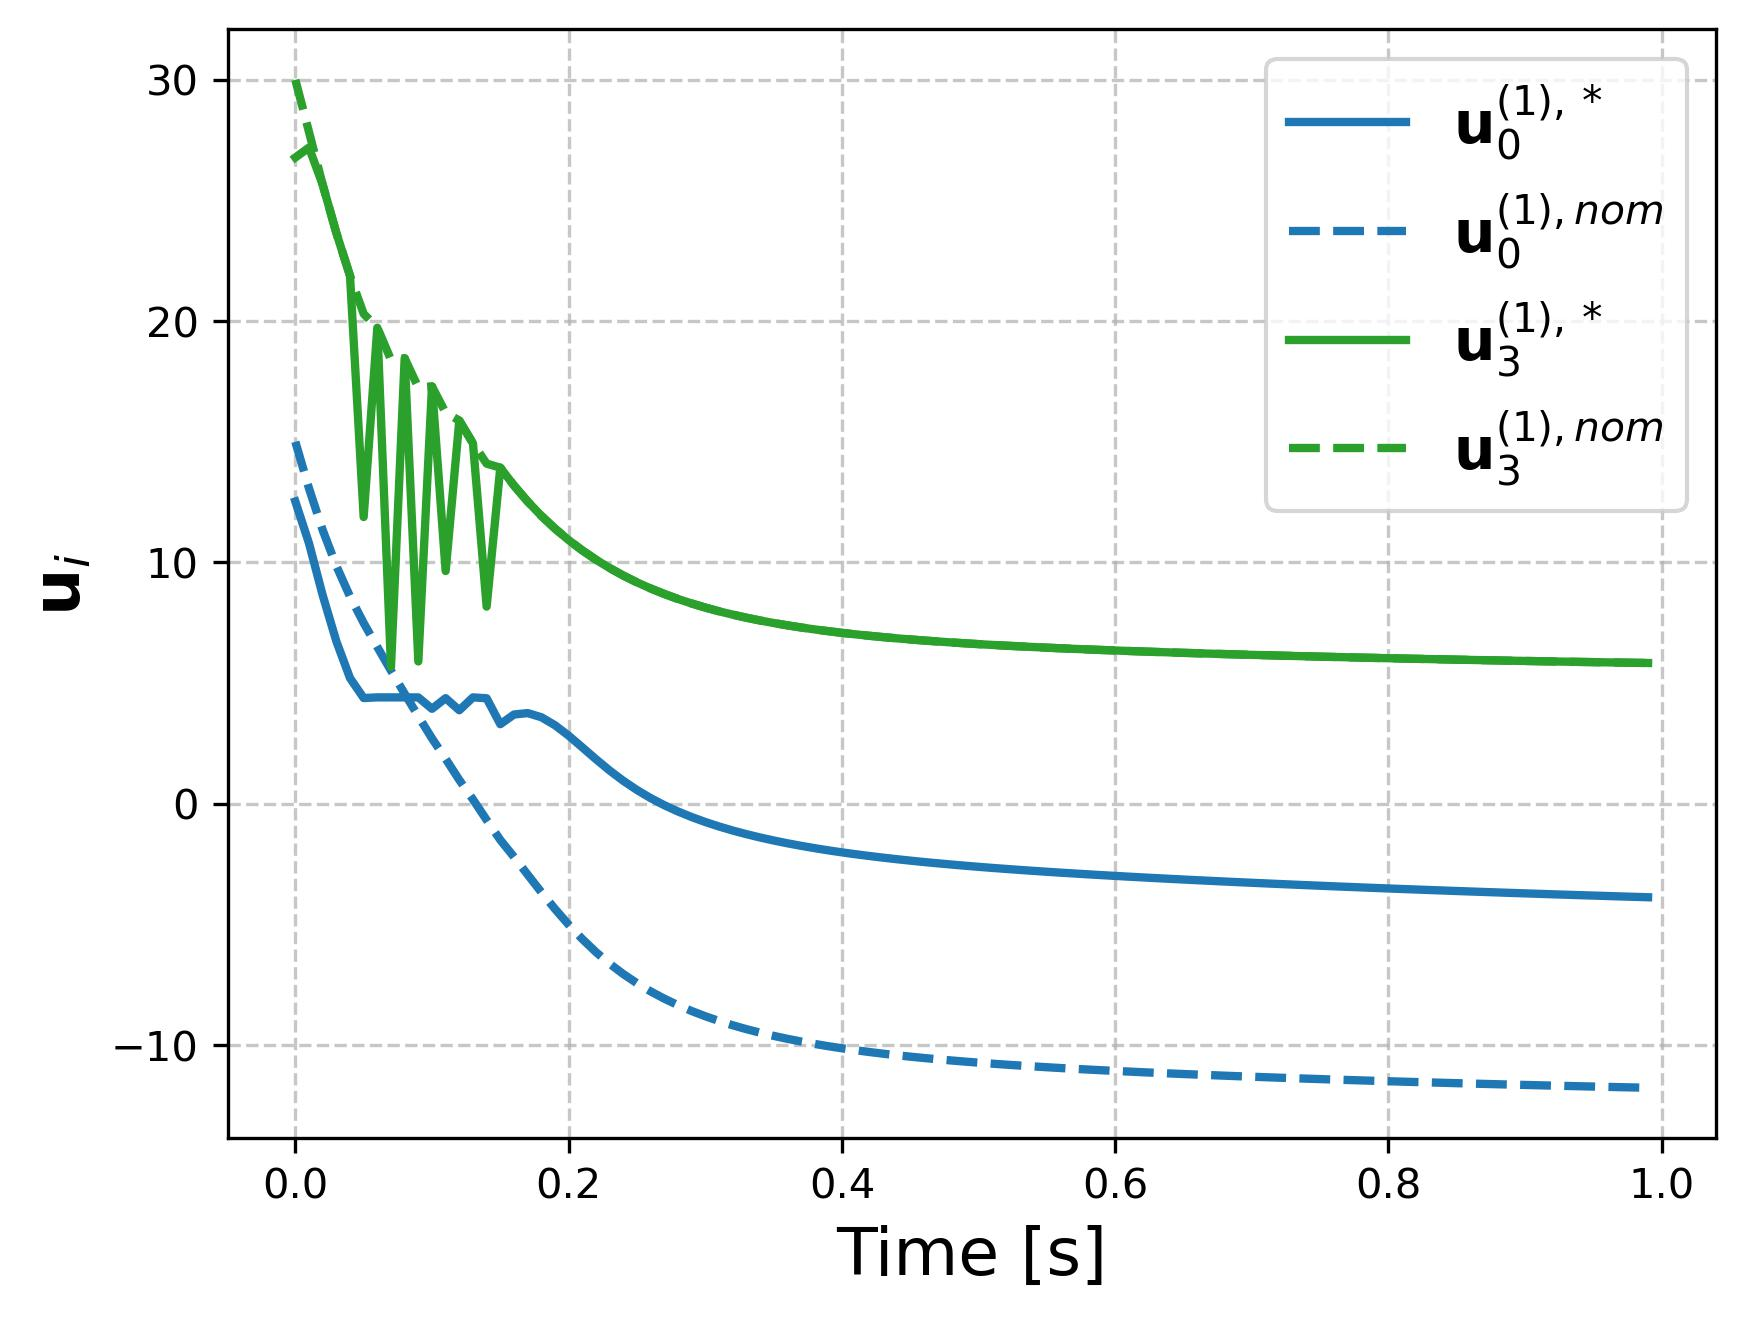
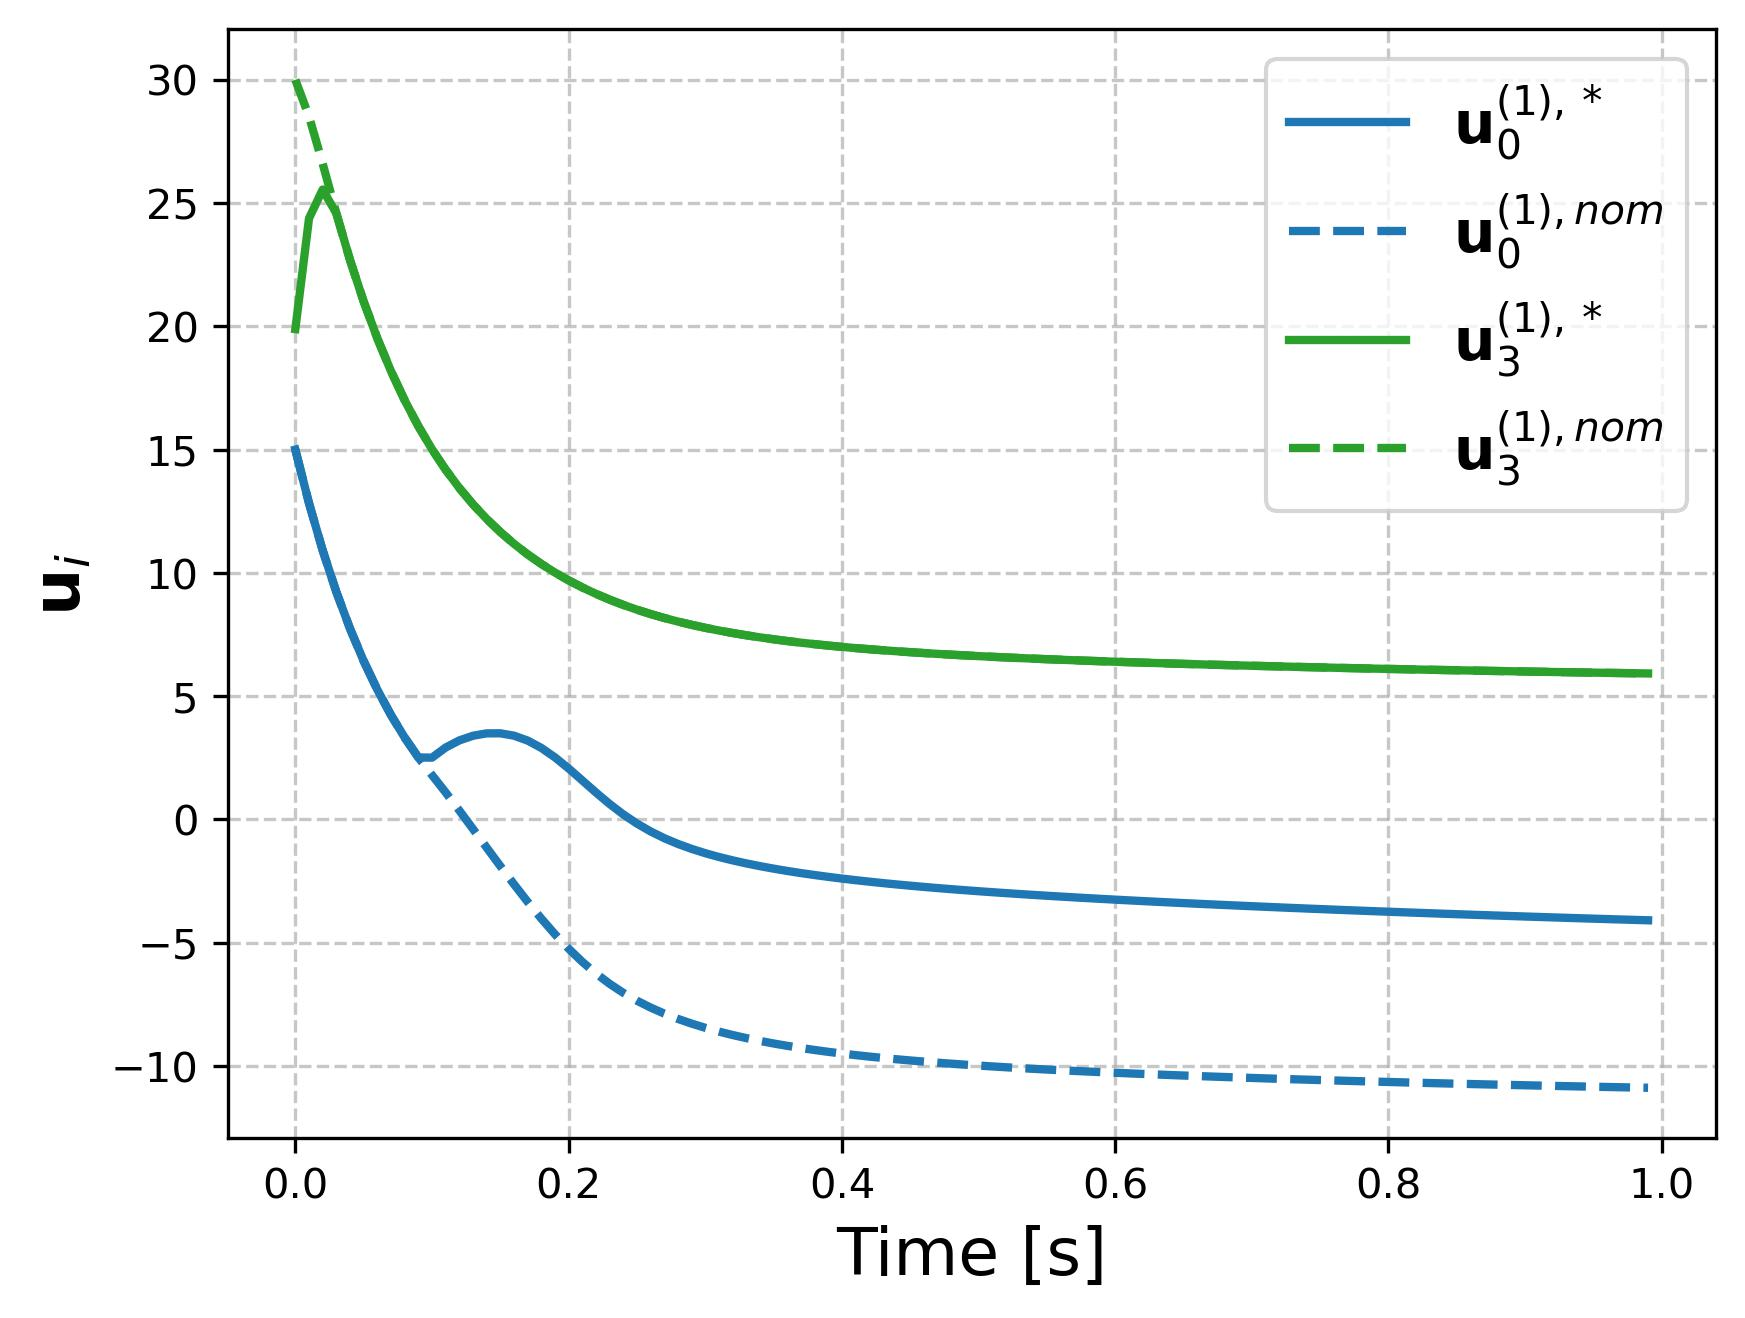
Jacobian Files

diff --git a/simulate.py b/simulate.py
@@ -61,7 +61,7 @@ def control_law_wrapper(state, t, mas, Jubounds, Jlbounds, filtered_states, filt
 
 def main():
     # Configuration
-    dimension = '1d'  # change to '1d' for 1d simulation results
+    dimension = '2d'  # change to '1d' for 1d simulation results
     is_train = False
     is_save = True
     save_dir = "figures"

diff --git a/README.md b/README.md
@@ -34,8 +34,8 @@ This work introduces distributed data-driven control barrier functions (3D-ZCBFs
 │ └── config_struct.py # Dataclasses for configuration structures
 │
 ├── jacobian_bounds/ # Precomputed Jacobian bound files
-│ ├── jacobian_bounds_1d.pkl
-│ └── jacobian_bounds_2d.pkl
+│ ├── Jbounds1D.pkl
+│ └── Jbounds2D.pkl
 │
 ├── figures/ # Simulation results (plots, figures)
 │
@@ -70,10 +70,13 @@ dimension = '2d'
 # Control whether to train Jacobian bounds or load precomputed ones
 is_train = False  # True to train, False to load from jacobian_bounds/
 
+# Control whether to save simulation results or not
+is_save = False
+
 # Directory to save simulation results and figures
 save_dir = "figures"
 ```
 
-## 📜 License
+## 📜 Citing this Work
 
 This repository is for academic and research purposes. Please cite the above paper if used.
